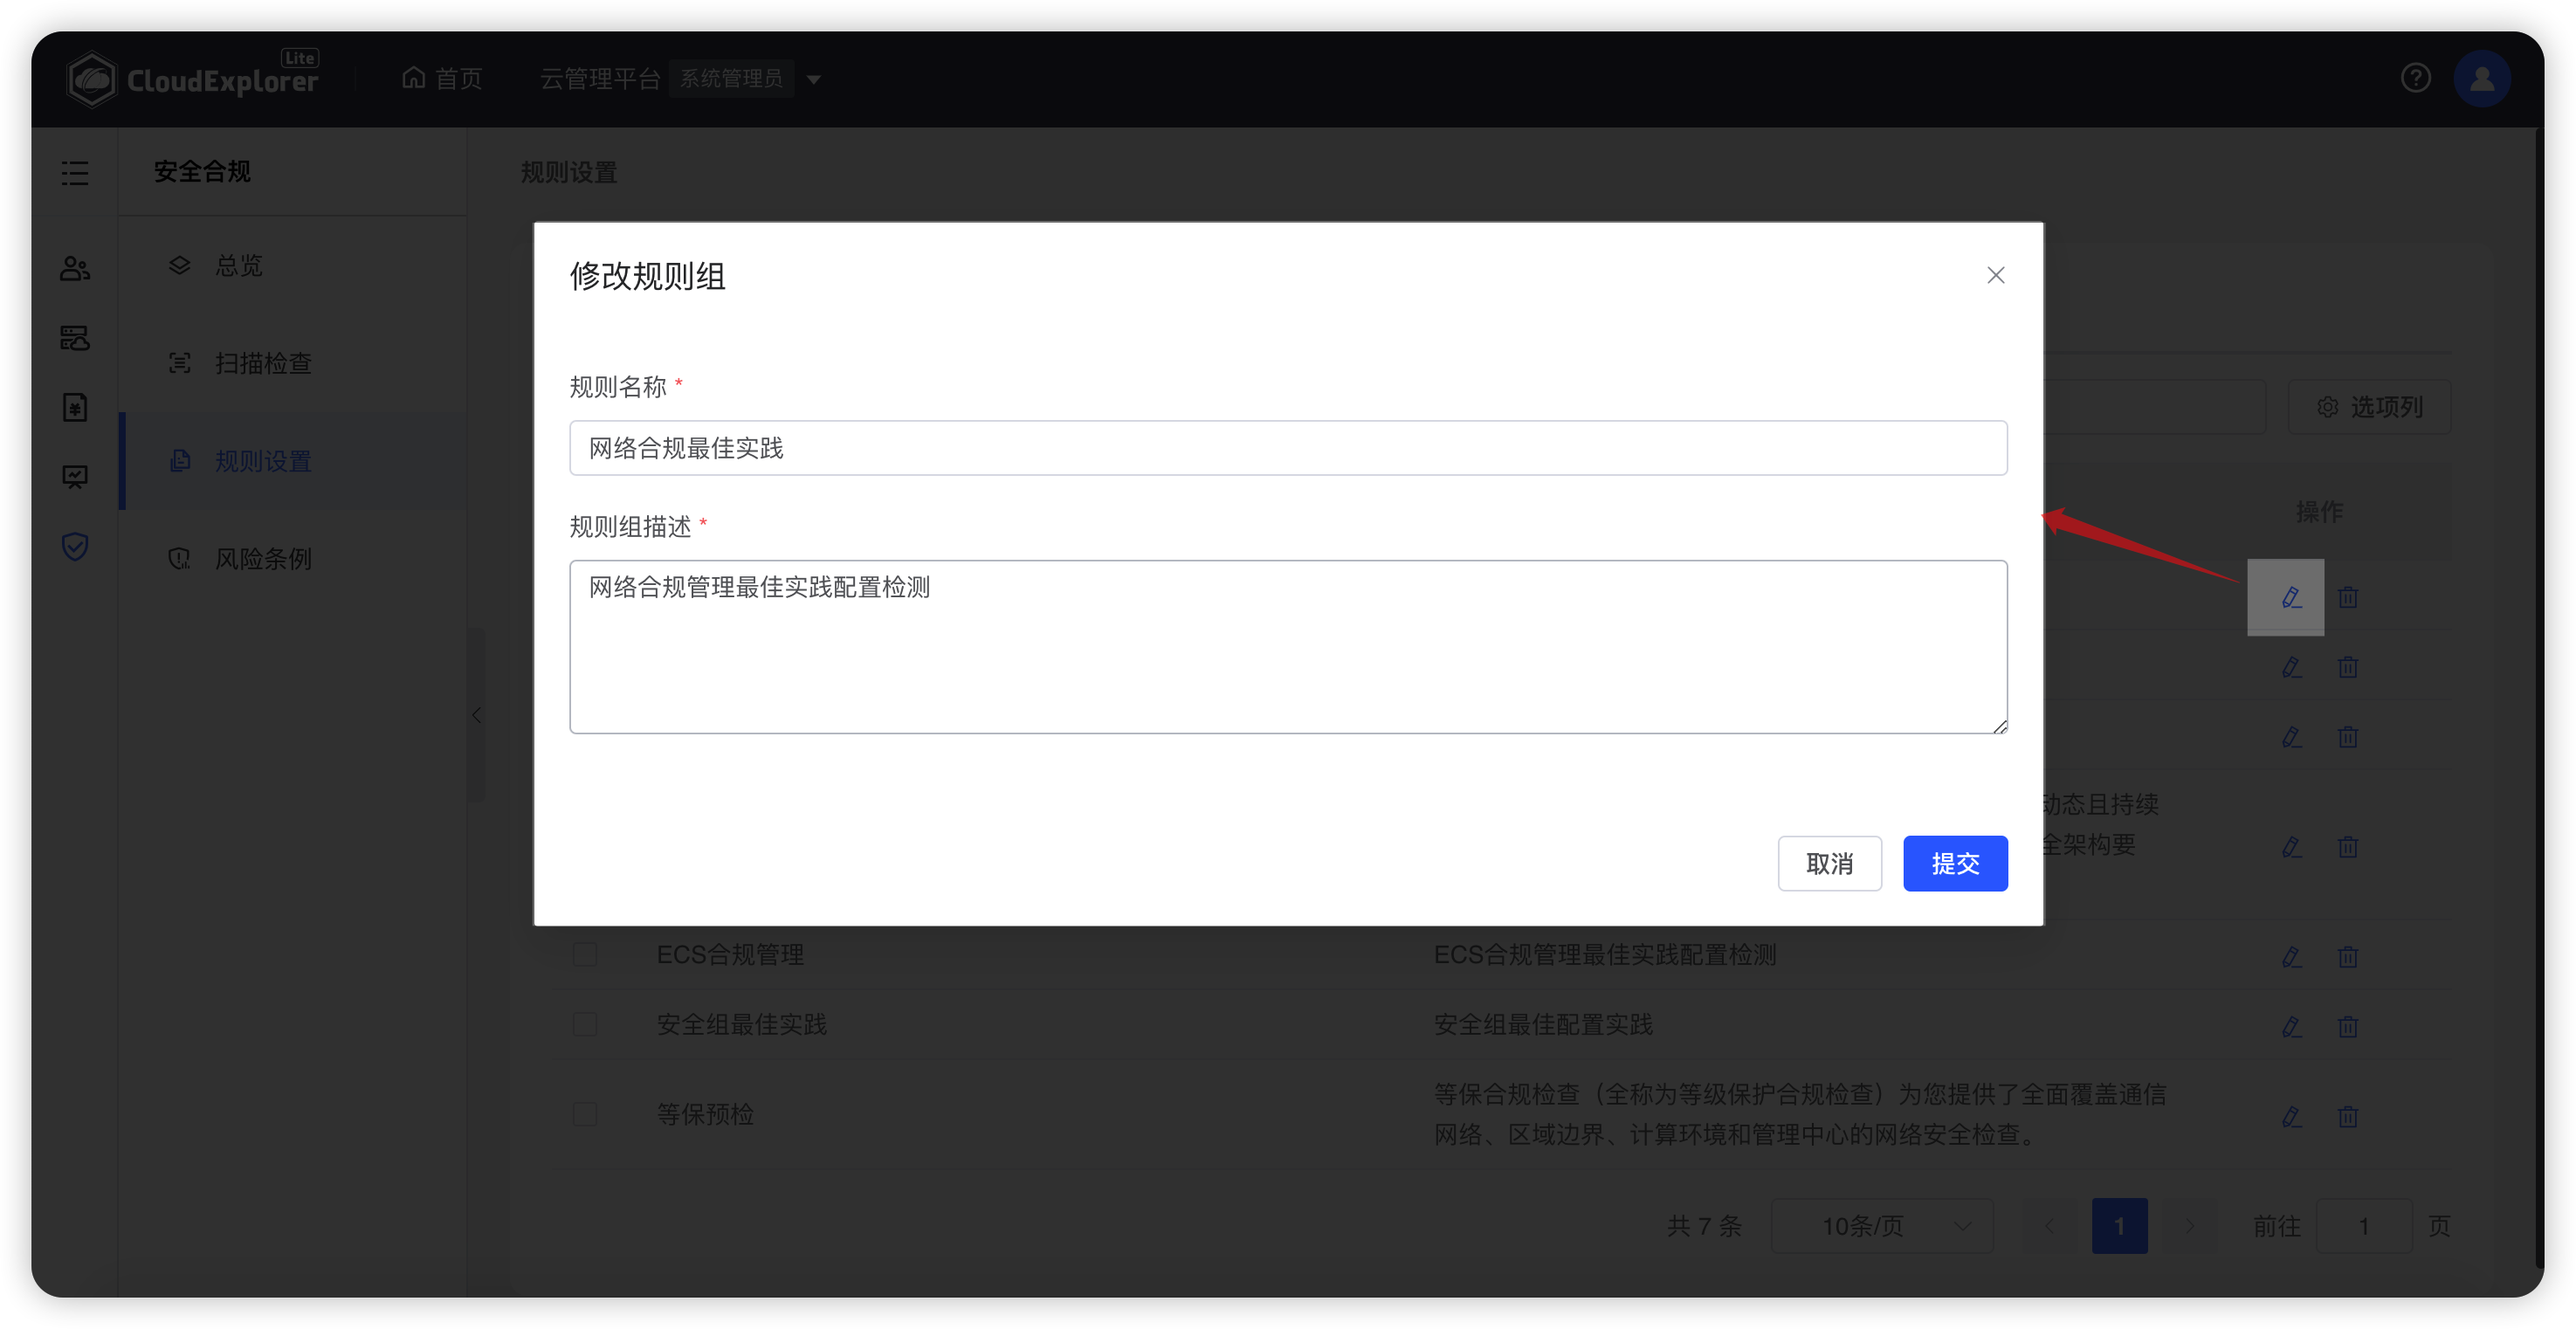
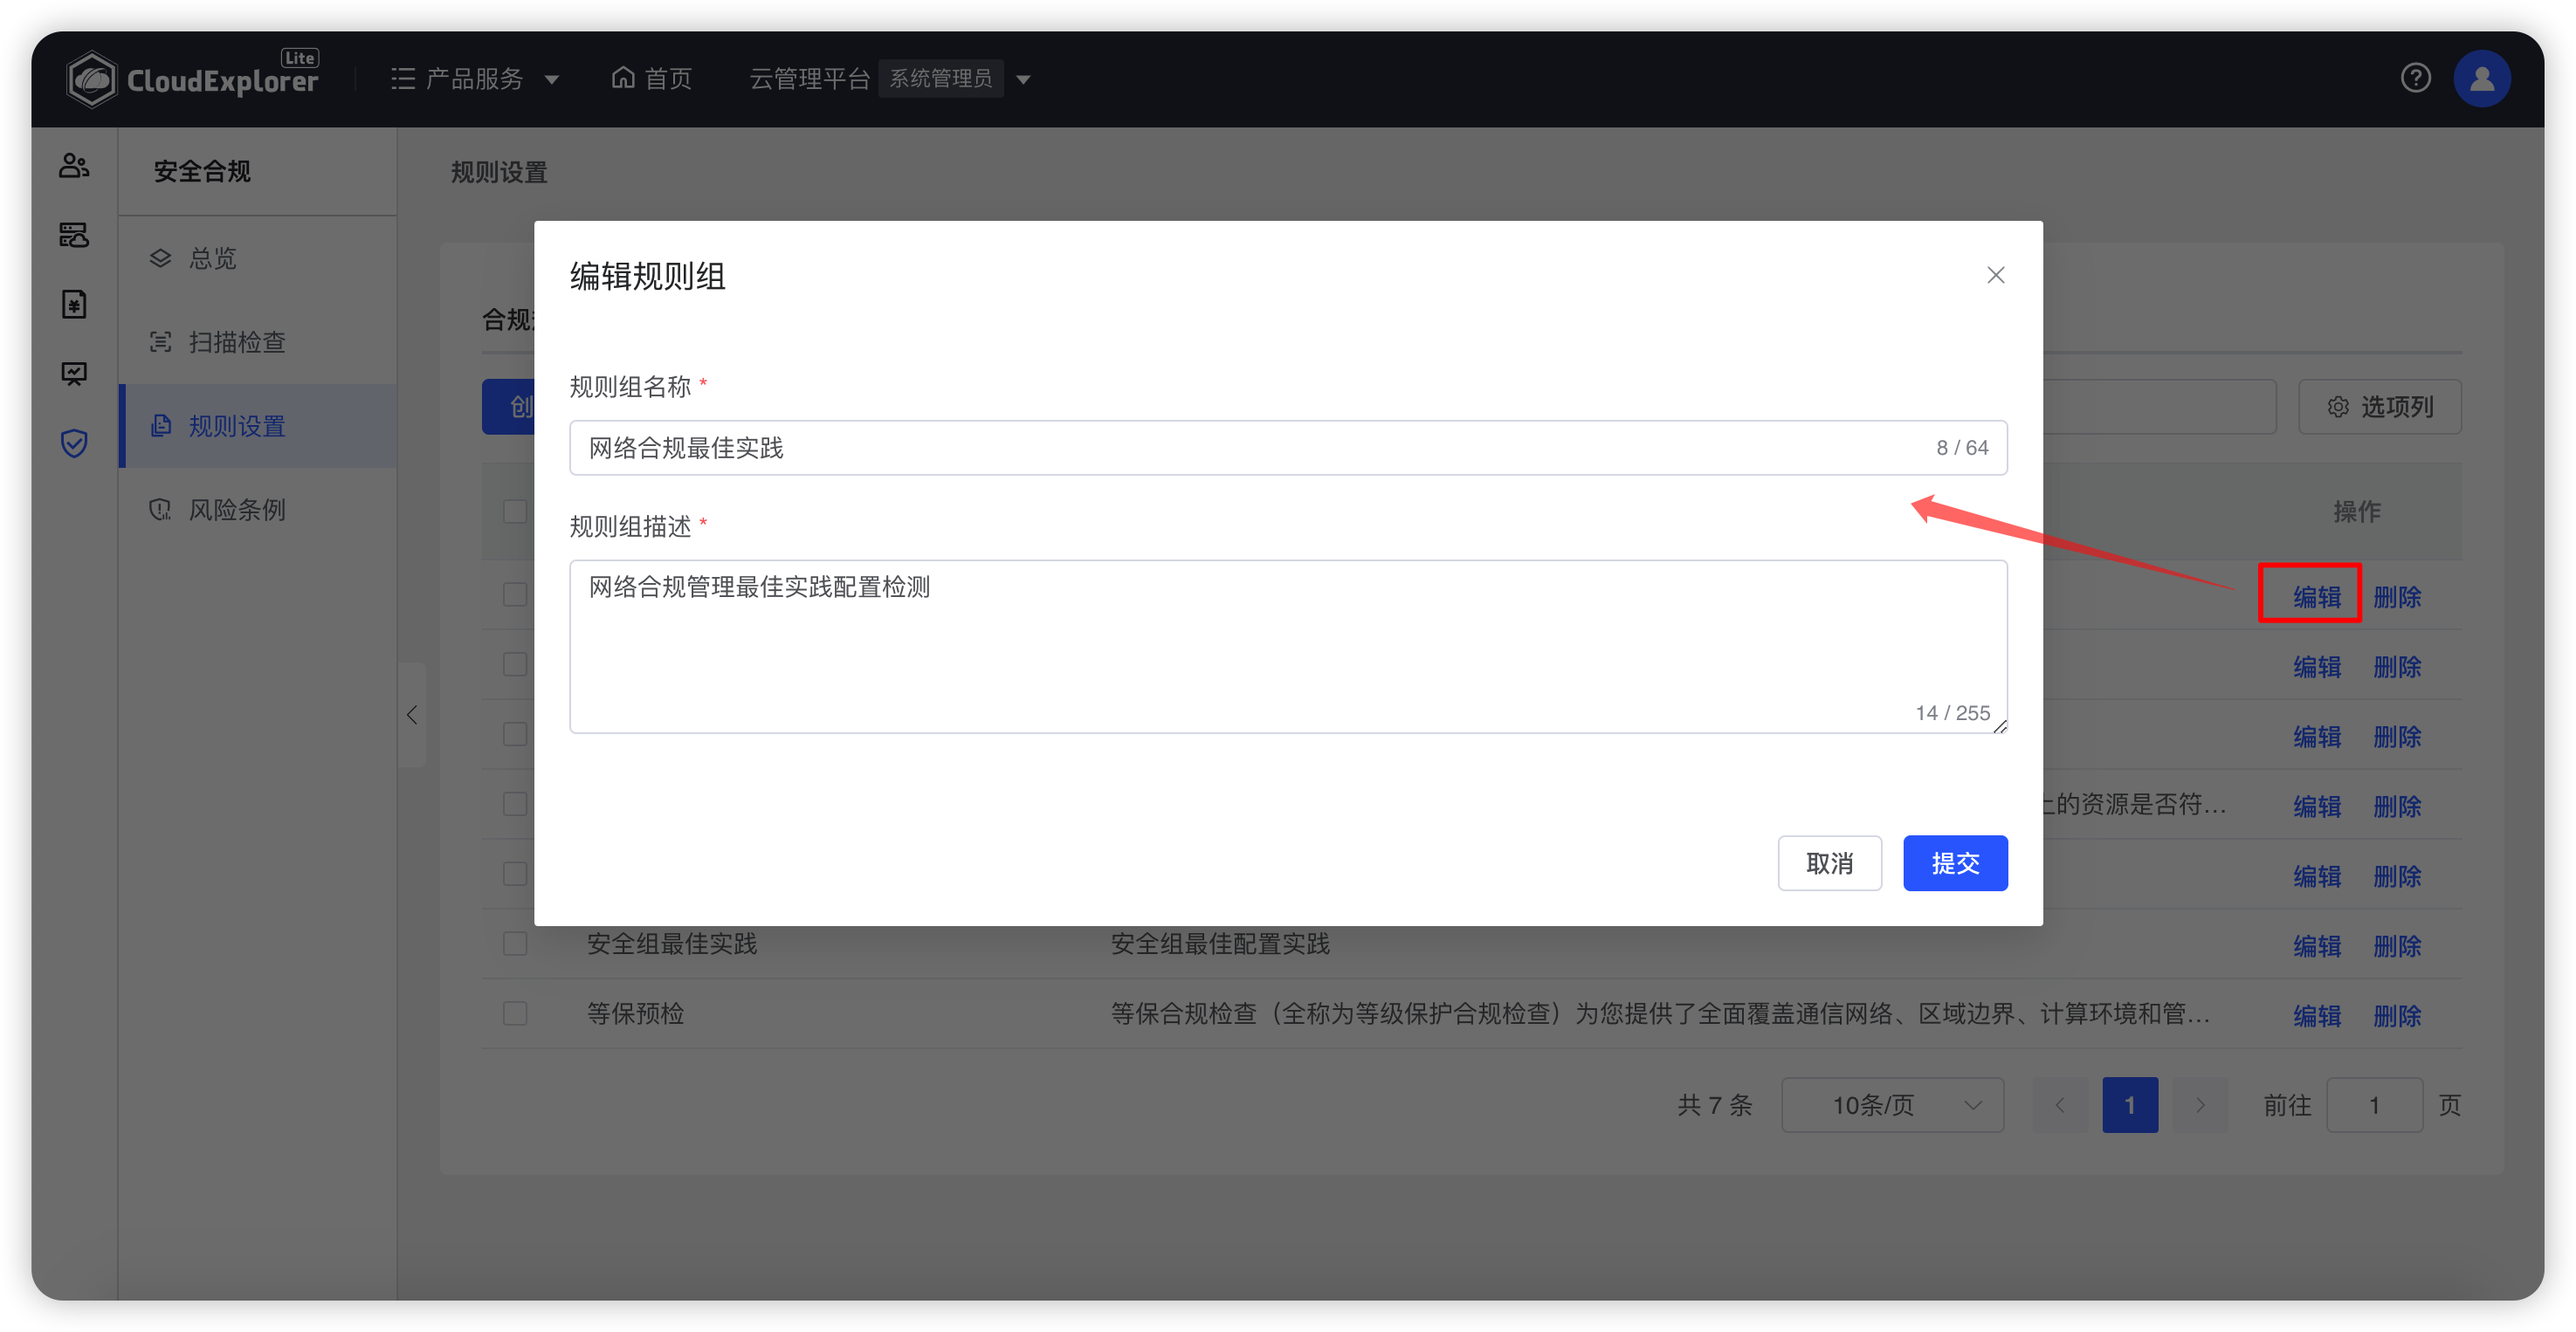
更新安全合规规则组

diff --git a/docs/user_manual/security-compliance/rule_group.md b/docs/user_manual/security-compliance/rule_group.md
@@ -6,15 +6,17 @@
 
 !!! Abstract ""
 
-    操作方式：在【安全合规】-【规则设置】-【规则组】页面，点击【创建】，输入规则组名称、规则组描述，确认后点击【提交】即可。
+    操作方式：在【安全合规】-【规则设置】-【规则组】页面，点击【创建规则组】，输入规则组名称、规则组描述，确认后点击【提交】即可。
 
 ![规则组创建](../../img/security-compliance/rule_group/规则组创建.png){ width="1235px" }
+![规则组创建页面](../../img/security-compliance/rule_group/规则组创建页面.png){ width="1235px" }
+
 
 ## 2 规则组编辑
 
 !!! Abstract ""
 
-    操作方式：在【安全合规】-【规则设置】-【规则组】页面规则列表中，对需要编辑的规则组点击【操作】列【修改】图标，修改规则组详情，确认后点击【提交】即可。
+    操作方式：在【安全合规】-【规则设置】-【规则组】页面规则列表中，对需要编辑的规则组点击操作“编辑”，修改规则组详情，确认后点击【提交】即可。
 
 ![规则组修改](../../img/security-compliance/rule_group/规则组修改.png){ width="1235px" }
 
@@ -22,6 +24,6 @@
 
 !!! Abstract ""
 
-    操作方式：在【安全合规】-【规则设置】-【规则组】页面规则列表中，对需要编辑的规则组点击【操作】列【删除】图标，在再次确认弹窗中点击【删除】即可。
+    操作方式：在【安全合规】-【规则设置】-【规则组】页面规则列表中，对需要编辑的规则组点击操作“删除”，在再次确认弹窗中点击【删除】即可。
 
 ![规则组删除](../../img/security-compliance/rule_group/规则组删除.png){ width="1235px" }

diff --git a/docs/user_manual/finance-management/ledger_setting.md b/docs/user_manual/finance-management/ledger_setting.md
@@ -4,7 +4,7 @@
 
 !!! Abstract ""
 
-    __情况说明：__<br />
+    __页面内容说明：__<br />
     -  分账规则设置前提条件：公有云平台上账单中有区分组织、工作空间的字段依据，如标签、企业项目、财务单元；没有区分字段依据，请先在公有云平台规划相关字段。<br />
     -  平台支持的分账依据字段：产品名称、云平台、产品明细、云账号、标签、企业项目。
 
